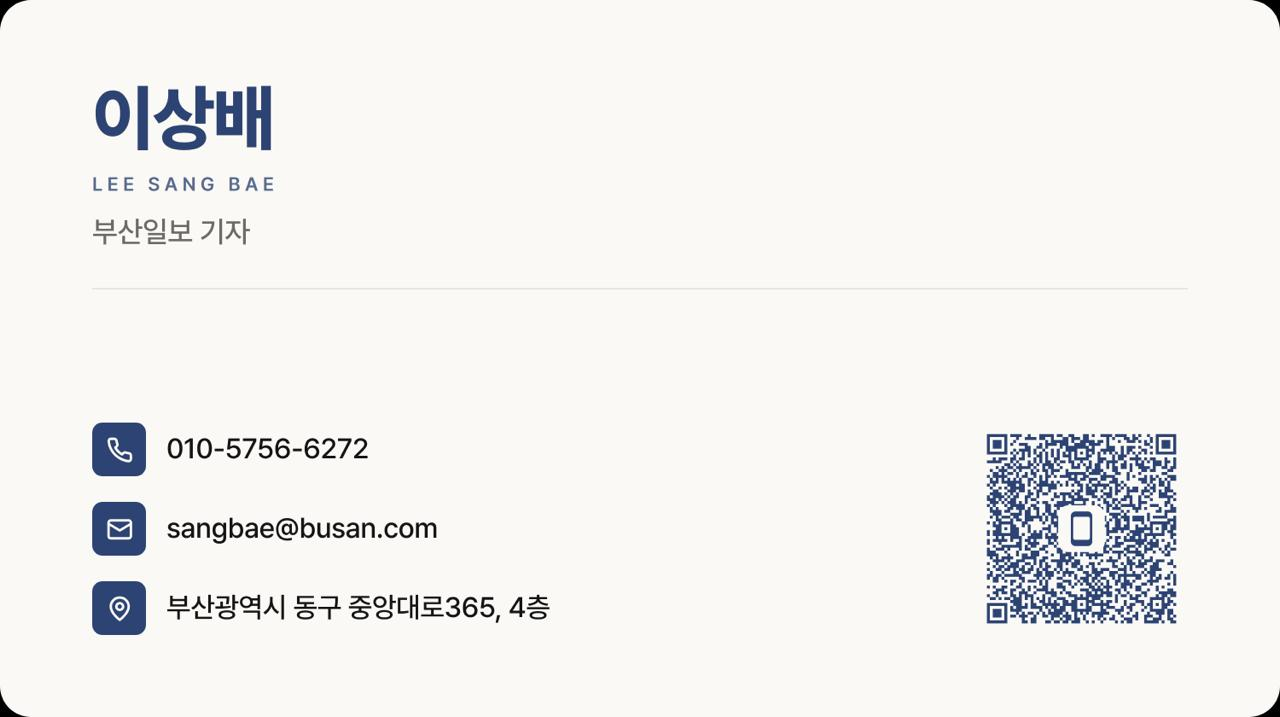
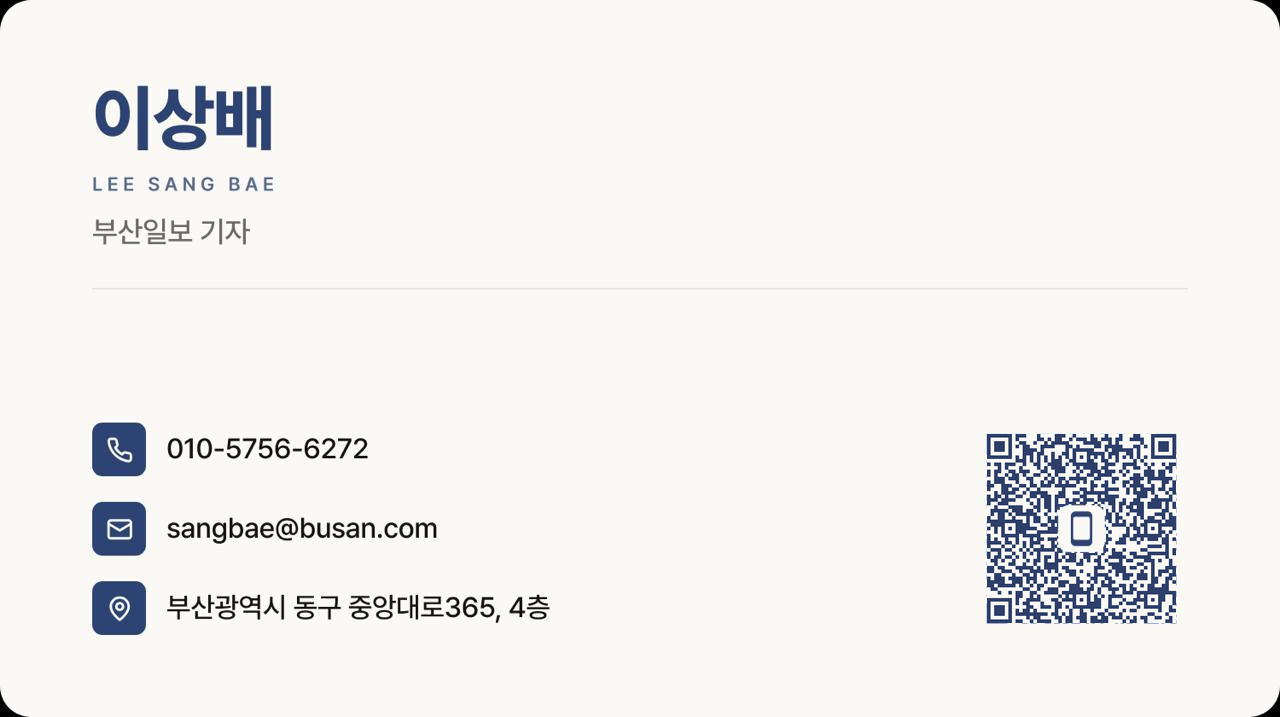
명함 링크 개편과 연락처 저장 버튼 추가
- 연락처 저장·전화·메일 버튼 추가
- 홈페이지와 기자 홈·블로그·인스타·X·쓰레드 링크로 교체
- 관심 분야 구역 삭제
- 연락처 카드와 QR에 소개 사이트 주소 추가

Changed region(s): [[0.75, 0.583, 0.9375, 0.8898]]

diff --git a/index.html b/index.html
@@ -7,16 +7,18 @@
 <title>이상배 · 부산일보 기자</title>
 <meta property="og:type" content="website">
 <meta property="og:title" content="이상배 · 부산일보 기자">
-<meta property="og:description" content="부산일보 이상배 기자 디지털 명함입니다. 탭하여 명함을 확인하고 저장하세요.">
+<meta property="og:description" content="부산일보 이상배 기자 디지털 명함입니다. 연락처에 저장하세요.">
 <meta property="og:image" content="https://aidenleekor.github.io/c/card.jpg">
 <meta property="og:image:width" content="1280">
 <meta property="og:image:height" content="717">
 <meta property="og:url" content="https://aidenleekor.github.io/c/">
-<meta property="og:site_name" content="부산일보">
+<meta property="og:site_name" content="이상배">
 <meta name="twitter:card" content="summary_large_image">
 <meta name="twitter:title" content="이상배 · 부산일보 기자">
 <meta name="twitter:description" content="부산일보 이상배 기자 디지털 명함">
 <meta name="twitter:image" content="https://aidenleekor.github.io/c/card.jpg">
+<link rel="icon" type="image/png" sizes="32x32" href="favicon-32.png">
+<link rel="apple-touch-icon" href="apple-touch-icon.png">
 <link rel="stylesheet" as="style" crossorigin href="https://cdn.jsdelivr.net/gh/orioncactus/pretendard@v1.3.9/dist/web/variable/pretendardvariable-dynamic-subset.min.css">
 <style>
   *{ box-sizing:border-box; -webkit-tap-highlight-color:transparent; margin:0; padding:0; }
@@ -47,29 +49,26 @@
   .flip-btn:active{ background:rgba(34,51,90,.5); transform:scale(.93); }
   .flip-btn svg{ width:21px; height:21px; }
 
-  .guide{ margin-top:16px; text-align:center;
-    font-size:14.5px; font-weight:500; color:rgba(255,255,255,.68); line-height:1.55; }
-  .guide b{ color:#9ec3ff; font-weight:700; }
+  .actions{ display:grid; grid-template-columns:2fr 1fr 1fr; gap:8px; margin-top:16px; }
+  .abtn{ display:flex; align-items:center; justify-content:center; height:46px; border-radius:12px;
+    text-decoration:none; font-size:14.5px; font-weight:700; color:#fff;
+    background:rgba(255,255,255,.1); border:1px solid rgba(255,255,255,.2); }
+  .abtn:active{ background:rgba(255,255,255,.2); }
+  .abtn.save{ background:#fff; border-color:#fff; color:#22335a; }
+  .abtn.save:active{ background:#dfe6f2; }
 
-  .divider{ border:none; border-top:1.4px dashed rgba(255,255,255,.18); margin:72px 6px 34px; }
-  .links{ display:grid; grid-template-columns:1fr 1fr; gap:10px; margin-top:0; }
-  .lbtn{ display:flex; align-items:center; justify-content:flex-start; gap:9px;
-    background:rgba(255,255,255,.07); border:1px solid rgba(255,255,255,.14); border-radius:14px;
-    -webkit-backdrop-filter:blur(6px); backdrop-filter:blur(6px); text-decoration:none;
-    color:rgba(255,255,255,.92); font-size:13.5px; font-weight:700; text-align:left; padding:10px 11px;
-    line-height:1.25; }
+  .divider{ border:none; border-top:1.4px dashed rgba(255,255,255,.18); margin:36px 6px 26px; }
+  .lbtn{ display:flex; align-items:center; justify-content:center; gap:10px; height:52px;
+    background:rgba(255,255,255,.08); border:1px solid rgba(255,255,255,.16); border-radius:14px;
+    text-decoration:none; color:#fff; font-size:15px; font-weight:700; }
   .lbtn:active{ background:rgba(255,255,255,.16); }
-  .lbtn .ic{ width:26px; height:26px; flex:0 0 26px; border-radius:7px; background:#fff; }
-  .lbtn img.ic{ object-fit:contain; padding:4px; }
-  .lbtn svg.ic{ padding:3px; }
-  .lbtn.book img.ic{ object-fit:cover; padding:0; }
-
-  .interests{ margin-top:22px; padding:16px 16px 14px; border-radius:14px;
-    background:rgba(255,255,255,.05); border:1px solid rgba(255,255,255,.12); }
-  .interests h2{ font-size:13px; font-weight:700; color:#9ec3ff; letter-spacing:.02em; margin-bottom:10px; }
-  .interests ul{ list-style:none; display:grid; gap:7px; }
-  .interests li{ font-size:14px; font-weight:600; color:rgba(255,255,255,.9); line-height:1.45; }
-  .interests li span{ font-weight:500; color:rgba(255,255,255,.58); }
+  .lbtn .ic{ width:28px; height:28px; flex:0 0 28px; border-radius:7px; object-fit:cover; }
+  .sns{ display:grid; grid-template-columns:repeat(5,1fr); gap:8px; margin-top:10px; }
+  .sbtn{ display:flex; flex-direction:column; align-items:center; justify-content:center; gap:7px; height:68px;
+    background:rgba(255,255,255,.06); border:1px solid rgba(255,255,255,.13); border-radius:12px;
+    text-decoration:none; color:rgba(255,255,255,.92); font-size:12px; font-weight:600; }
+  .sbtn:active{ background:rgba(255,255,255,.16); }
+  .sbtn .sico{ width:20px; height:20px; }
 </style>
 </head>
 <body>
@@ -87,30 +86,23 @@
         <div class="face back"><img src="card-real.jpg" alt="이상배 부산일보 기자 실물 명함"></div>
       </div>
     </div>
-    <p class="guide">위 명함을 <b>길게 눌러</b> '사진에 저장'을 선택하세요.</p>
+    <div class="actions">
+      <a class="abtn save" href="a9064951.vcf">연락처 저장</a>
+      <a class="abtn" href="tel:010-5756-6272">전화</a>
+      <a class="abtn" href="mailto:sangbae@busan.com">메일</a>
+    </div>
 
     <hr class="divider">
 
-    <div class="links">
-      <a class="lbtn notion" href="https://www.notion.so/aidenleekor/20ff128f4b0581d6b095e4788cab373a" target="_blank" rel="noopener">
-        <img class="ic" src="notion.jpg" alt="" aria-hidden="true">포트폴리오</a>
-      <a class="lbtn insta" href="https://www.instagram.com/baesang2_?igsh=MXNsZzFyNmN4OGxkMw%3D%3D&utm_source=qr" target="_blank" rel="noopener">
-        <svg class="ic" viewBox="0 0 24 24" aria-hidden="true"><defs><linearGradient id="ig" x1="0" y1="1" x2="1" y2="0"><stop offset="0" stop-color="#F58529"/><stop offset=".5" stop-color="#DD2A7B"/><stop offset="1" stop-color="#8134AF"/></linearGradient></defs><rect x="2.5" y="2.5" width="19" height="19" rx="6" fill="none" stroke="url(#ig)" stroke-width="2.1"/><circle cx="12" cy="12" r="4.7" fill="none" stroke="url(#ig)" stroke-width="2.1"/><circle cx="17.5" cy="6.5" r="1.3" fill="url(#ig)"/></svg>인스타그램</a>
-      <a class="lbtn naver" href="https://media.naver.com/journalist/082/72835" target="_blank" rel="noopener">
-        <svg class="ic" viewBox="0 0 24 24" aria-hidden="true"><rect width="24" height="24" rx="5" fill="#03C75A"/><path d="M8.3 17V7h2.2l3 4.6V7H17v10h-2.2l-3-4.6V17z" fill="#fff"/></svg>기자 페이지</a>
-      <a class="lbtn book" href="https://product.kyobobook.co.kr/detail/S000202500518" target="_blank" rel="noopener">
-        <img class="ic" src="book.jpg" alt="" aria-hidden="true">산복빨래방</a>
+    <a class="lbtn home" href="https://baesang2.github.io" target="_blank" rel="noopener">
+      <img class="ic" src="apple-touch-icon.png" alt="" aria-hidden="true">홈페이지</a>
+    <div class="sns">
+      <a class="sbtn" href="https://media.naver.com/journalist/082/72835" target="_blank" rel="noopener"><svg class="sico" viewBox="0 0 24 24" aria-hidden="true"><path fill="currentColor" d="M16.273 12.845 7.376 0H0v24h7.726V11.156L16.624 24H24V0h-7.727v12.845Z"/></svg><span>기자 홈</span></a>
+      <a class="sbtn" href="https://blog.naver.com/bangsaelee" target="_blank" rel="noopener"><svg class="sico" viewBox="0 0 24 24" aria-hidden="true" fill="none" stroke="currentColor" stroke-width="2.2" stroke-linecap="round" stroke-linejoin="round"><path d="M12 20h9"/><path d="M16.5 3.5a2.1 2.1 0 0 1 3 3L7 19l-4 1 1-4Z"/></svg><span>블로그</span></a>
+      <a class="sbtn" href="https://www.instagram.com/baesang2_" target="_blank" rel="noopener"><svg class="sico" viewBox="0 0 24 24" aria-hidden="true"><path fill="currentColor" d="M7.0301.084c-1.2768.0602-2.1487.264-2.911.5634-.7888.3075-1.4575.72-2.1228 1.3877-.6652.6677-1.075 1.3368-1.3802 2.127-.2954.7638-.4956 1.6365-.552 2.914-.0564 1.2775-.0689 1.6882-.0626 4.947.0062 3.2586.0206 3.6671.0825 4.9473.061 1.2765.264 2.1482.5635 2.9107.308.7889.72 1.4573 1.388 2.1228.6679.6655 1.3365 1.0743 2.1285 1.38.7632.295 1.6361.4961 2.9134.552 1.2773.056 1.6884.069 4.9462.0627 3.2578-.0062 3.668-.0207 4.9478-.0814 1.28-.0607 2.147-.2652 2.9098-.5633.7889-.3086 1.4578-.72 2.1228-1.3881.665-.6682 1.0745-1.3378 1.3795-2.1284.2957-.7632.4966-1.636.552-2.9124.056-1.2809.0692-1.6898.063-4.948-.0063-3.2583-.021-3.6668-.0817-4.9465-.0607-1.2797-.264-2.1487-.5633-2.9117-.3084-.7889-.72-1.4568-1.3876-2.1228C21.2982 1.33 20.628.9208 19.8378.6165 19.074.321 18.2017.1197 16.9244.0645 15.6471.0093 15.236-.005 11.977.0014 8.718.0076 8.31.0215 7.0301.0839m.1402 21.6932c-1.17-.0509-1.8053-.2453-2.2287-.408-.5606-.216-.96-.4771-1.3819-.895-.422-.4178-.6811-.8186-.9-1.378-.1644-.4234-.3624-1.058-.4171-2.228-.0595-1.2645-.072-1.6442-.079-4.848-.007-3.2037.0053-3.583.0607-4.848.05-1.169.2456-1.805.408-2.2282.216-.5613.4762-.96.895-1.3816.4188-.4217.8184-.6814 1.3783-.9003.423-.1651 1.0575-.3614 2.227-.4171 1.2655-.06 1.6447-.072 4.848-.079 3.2033-.007 3.5835.005 4.8495.0608 1.169.0508 1.8053.2445 2.228.408.5608.216.96.4754 1.3816.895.4217.4194.6816.8176.9005 1.3787.1653.4217.3617 1.056.4169 2.2263.0602 1.2655.0739 1.645.0796 4.848.0058 3.203-.0055 3.5834-.061 4.848-.051 1.17-.245 1.8055-.408 2.2294-.216.5604-.4763.96-.8954 1.3814-.419.4215-.8181.6811-1.3783.9-.4224.1649-1.0577.3617-2.2262.4174-1.2656.0595-1.6448.072-4.8493.079-3.2045.007-3.5825-.006-4.848-.0608M16.953 5.5864A1.44 1.44 0 1 0 18.39 4.144a1.44 1.44 0 0 0-1.437 1.4424M5.8385 12.012c.0067 3.4032 2.7706 6.1557 6.173 6.1493 3.4026-.0065 6.157-2.7701 6.1506-6.1733-.0065-3.4032-2.771-6.1565-6.174-6.1498-3.403.0067-6.156 2.771-6.1496 6.1738M8 12.0077a4 4 0 1 1 4.008 3.9921A3.9996 3.9996 0 0 1 8 12.0077"/></svg><span>인스타</span></a>
+      <a class="sbtn" href="https://x.com/AidenLee382573" target="_blank" rel="noopener"><svg class="sico" viewBox="0 0 24 24" aria-hidden="true"><path fill="currentColor" d="M14.234 10.162 22.977 0h-2.072l-7.591 8.824L7.251 0H.258l9.168 13.343L.258 24H2.33l8.016-9.318L16.749 24h6.993zm-2.837 3.299-.929-1.329L3.076 1.56h3.182l5.965 8.532.929 1.329 7.754 11.09h-3.182z"/></svg><span>X</span></a>
+      <a class="sbtn" href="https://www.threads.com/@baesang2_" target="_blank" rel="noopener"><svg class="sico" viewBox="0 0 24 24" aria-hidden="true"><path fill="currentColor" d="M18.263 11.097c-.03-3.486-1.92-5.586-5.111-5.586-2.13 0-3.922.963-4.863 2.499l2.062 1.438c.535-.843 1.272-1.543 2.628-1.543 1.528 0 2.318.85 2.544 2.431a15 15 0 0 0-2.236-.173c-4.125 0-6.068 1.867-6.068 4.336s1.943 3.99 4.804 3.99c3.139 0 5.013-2.115 5.781-4.735.798.361 1.348 1.204 1.348 2.47 0 3.387-3.907 5.232-7.22 5.232-4.885 0-8.077-3.207-8.077-8.424 0-6.392 4.223-10.487 9.9-10.487 3.808 0 5.69 1.671 6.97 3.914l2.108-1.475C21.44 2.078 18.331 0 13.663 0 6.227 0 1.168 5.277 1.168 12.934c0 7 4.953 11.066 10.856 11.066 4.878 0 9.809-2.846 9.809-7.716 0-2.545-1.46-4.231-3.569-5.187m-6.33 4.855c-1.077 0-2.026-.512-2.026-1.453 0-1.483 1.822-1.934 3.606-1.934.678 0 1.34.045 1.927.173-.422 1.927-1.671 3.215-3.508 3.214Z"/></svg><span>쓰레드</span></a>
     </div>
-
-    <section class="interests" aria-label="관심 분야">
-      <h2>관심 분야</h2>
-      <ul>
-        <li>산복빨래방 <span>(도시재생·적극행정 인터뷰 스토리텔링)</span></li>
-        <li>진로 <span>(기자)</span></li>
-        <li>언론 대응 <span>(보도자료 작성 등)</span></li>
-        <li>AI 활용</li>
-      </ul>
-    </section>
   </div>
 
 <script>
